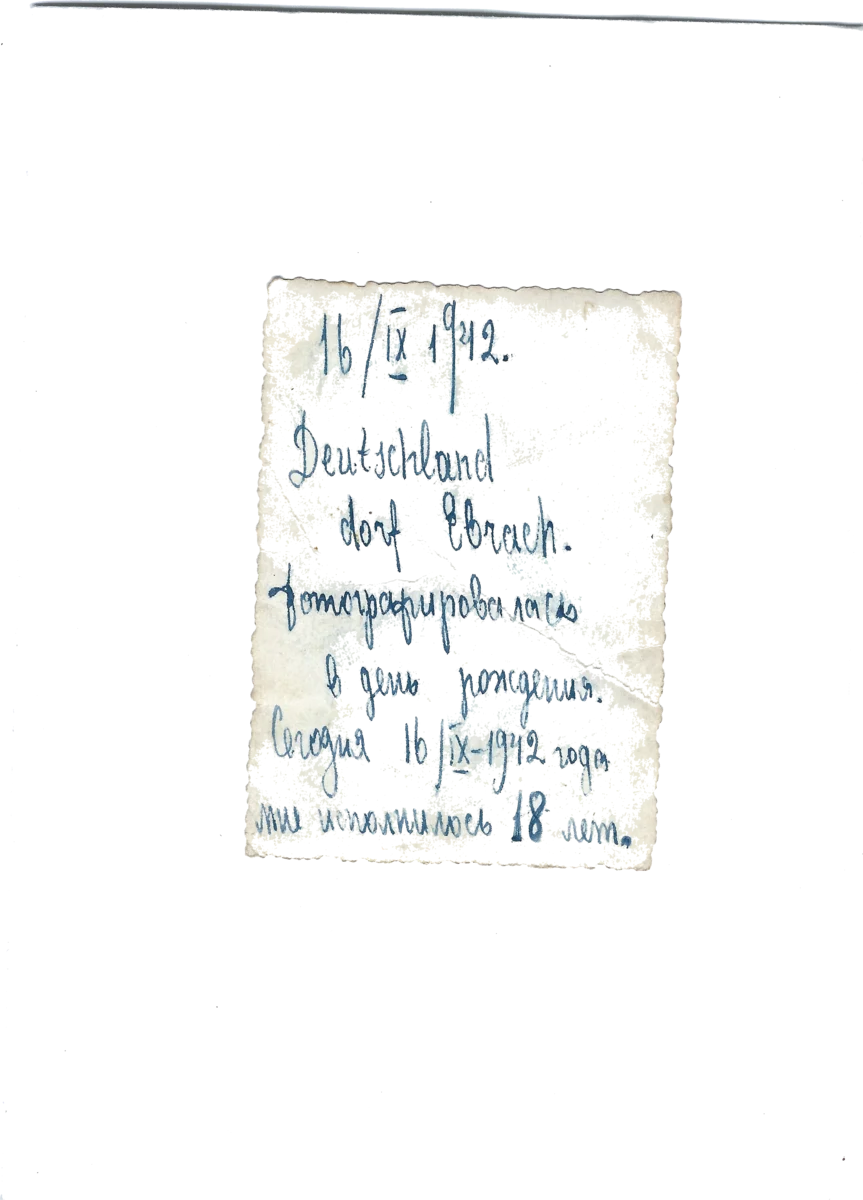
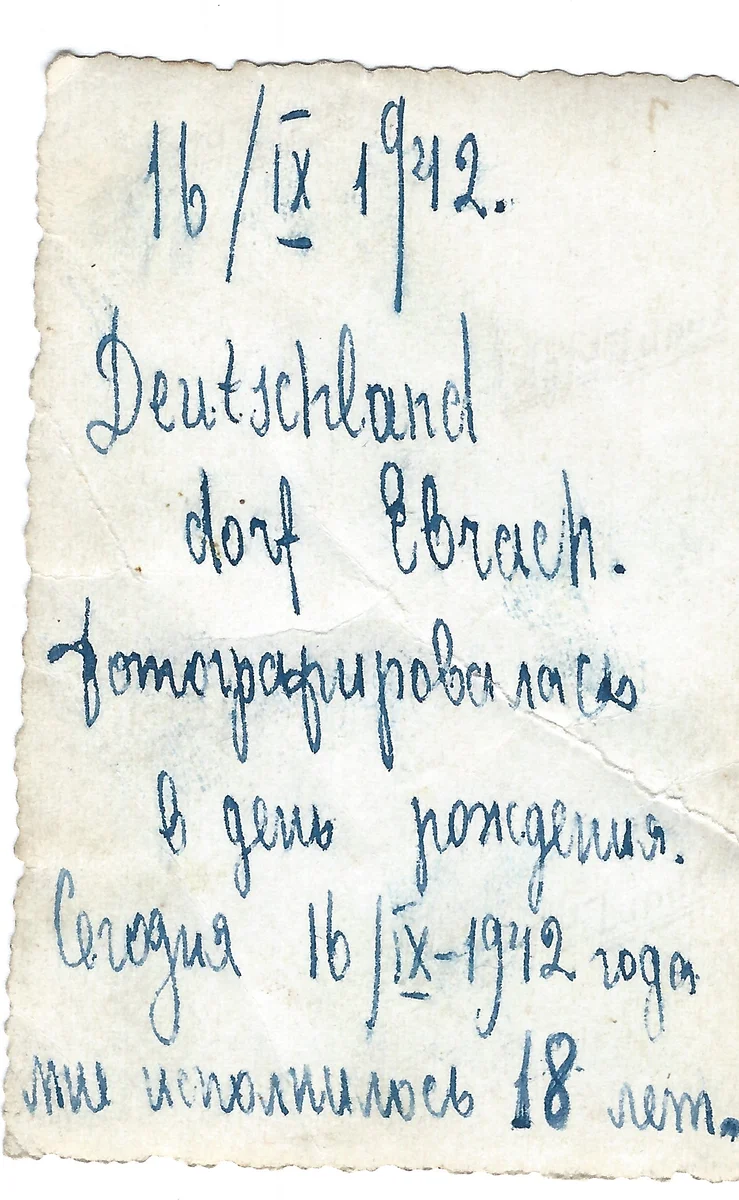
Improve photo crops and add transparent backgrounds
- Crop portrait (SCAN0188) tighter to card edges, preserving scalloped
  border while removing excess white margin
- Crop group photo (SCAN0189) tighter to torn edges
- Make all photo backgrounds transparent for natural drop-shadow
- Convert diary page (SCAN0165) to WebP with transparent background
- Use height-based sizing for hero layout to keep images side-by-side

diff --git a/themes/raisa/layouts/index.html b/themes/raisa/layouts/index.html
@@ -2,12 +2,12 @@
 {{ $lang := .Site.Language.Lang }}
 
 <div class="hero" style="position: relative;">
-  <div class="hero-image" style="margin: 0 auto 2rem; max-width: 750px; display: flex; flex-wrap: wrap; gap: 1rem; justify-content: center; align-items: center;">
-    <div style="text-align: center; flex: 0 0 auto;">
-      <img src="{{ "scans/SCAN0188.webp" | relURL }}" alt="{{ if eq $lang "ru" }}Раиса Погорелова, 18 лет. Эбрах, Германия. 16 сентября 1942{{ else if eq $lang "de" }}Raisa Pogorelova, 18 Jahre. Ebrach, Deutschland. 16. September 1942{{ else }}Raisa Pogorelova, age 18. Ebrach, Germany. September 16, 1942{{ end }}" style="max-height: 450px; max-width: 80vw; width: auto; filter: drop-shadow(5px 5px 10px rgba(0,0,0,0.35)); transform: rotate(-3deg);">
+  <div class="hero-image" style="margin: 0 auto 2rem; display: flex; flex-wrap: wrap; gap: 2rem; justify-content: center; align-items: center; padding: 0 1rem;">
+    <div style="text-align: center;">
+      <img src="{{ "scans/SCAN0188.webp" | relURL }}" alt="{{ if eq $lang "ru" }}Раиса Погорелова, 18 лет. Эбрах, Германия. 16 сентября 1942{{ else if eq $lang "de" }}Raisa Pogorelova, 18 Jahre. Ebrach, Deutschland. 16. September 1942{{ else }}Raisa Pogorelova, age 18. Ebrach, Germany. September 16, 1942{{ end }}" style="height: 500px; max-height: 65vh; max-width: 80vw; width: auto; filter: drop-shadow(5px 5px 10px rgba(0,0,0,0.3)); transform: rotate(-3deg);">
       <div style="margin-top: 0.5rem; font-size: 0.8rem; color: var(--text-muted, #8b7d6b); font-style: italic;">{{ if eq $lang "ru" }}Раиса, 18 лет. Эбрах, 16 сентября 1942{{ else if eq $lang "de" }}Raisa, 18 Jahre. Ebrach, 16. September 1942{{ else }}Raisa, age 18. Ebrach, September 16, 1942{{ end }}</div>
     </div>
-    <img src="{{ "scans/SCAN0165.JPG" | relURL }}" alt="{{ if eq $lang "ru" }}Первая страница дневника Раисы, 8 мая 1942{{ else if eq $lang "de" }}Erste Tagebuchseite von Raisa, 8. Mai 1942{{ else }}First diary page by Raisa, May 8, 1942{{ end }}" style="max-height: 220px; max-width: 60vw; width: auto; filter: drop-shadow(3px 3px 8px rgba(0,0,0,0.25)); transform: rotate(2.5deg);">
+    <img src="{{ "scans/SCAN0165.webp" | relURL }}" alt="{{ if eq $lang "ru" }}Первая страница дневника Раисы, 8 мая 1942{{ else if eq $lang "de" }}Erste Tagebuchseite von Raisa, 8. Mai 1942{{ else }}First diary page by Raisa, May 8, 1942{{ end }}" style="height: 320px; max-height: 42vh; max-width: 60vw; width: auto; filter: drop-shadow(3px 3px 8px rgba(0,0,0,0.25)); transform: rotate(2.5deg);">
   </div>
   <h1>Раїса Погорелова</h1>
   <div class="years">1942 — 1944</div>

diff --git a/CLAUDE.md b/CLAUDE.md
@@ -46,6 +46,16 @@ content/
 
 180 JPG files in `static/scans/` (SCAN0003.JPG – SCAN0182.JPG). Referenced by filename stem in front matter `scans` array. Displayed via `scan-gallery` CSS grid in single.html.
 
+### Photographs
+
+4 WebP files in `static/scans/` (SCAN0187–SCAN0190) — the only known wartime photos of Raisa:
+- **SCAN0187.webp** — Back of birthday portrait (inscription: date, location, "turned 18")
+- **SCAN0188.webp** — Portrait of Raisa, age 18 (Sept 16, 1942, Ebrach)
+- **SCAN0189.webp** — Raisa with companion (Sept 1944, Ebrach)
+- **SCAN0190.webp** — Back of companion photo (inscription: "Ebrach IX 1944г.")
+
+All photos use transparent backgrounds (WebP with alpha) and `filter: drop-shadow()` instead of `box-shadow` to follow the irregular card edges. Referenced directly in layout templates and About page content (not via front matter `scans` array).
+
 ## Theme Layout
 
 All layouts in `themes/raisa/layouts/`:
@@ -116,9 +126,9 @@ Edit the corresponding layout file in `themes/raisa/layouts/` — these are hard
 ## Historical Context for AI Assistants
 
 When working with this content:
-- **Raisa** was ~18 when deported (born ~1924, Kyiv)
-- Letters span May 1942 (arrival in Germany) to late 1943
-- She worked on a farm in **Schönaich** (Franconia) then a factory in **Hannover**
+- **Raisa** was 17 when deported (born September 16, 1924, Kyiv — turned 18 in Germany)
+- Letters span May 1942 (arrival in Germany) to late 1943; photos extend to September 1944
+- She worked on a farm near **Ebrach** (Upper Franconia) then a factory in **Hannover**
 - Primary correspondents: sister **Anna**, grandmother **Бабушка**, children **Grishunok** and **Motik**
 - The Walter family hosted her: Ludwig, Hedwig, Eduard (soldier), Schön (fond of Raisa)
 - **Vladislav Kurbanbaiev** ("Kurban") — Serbian worker, her closest friend
